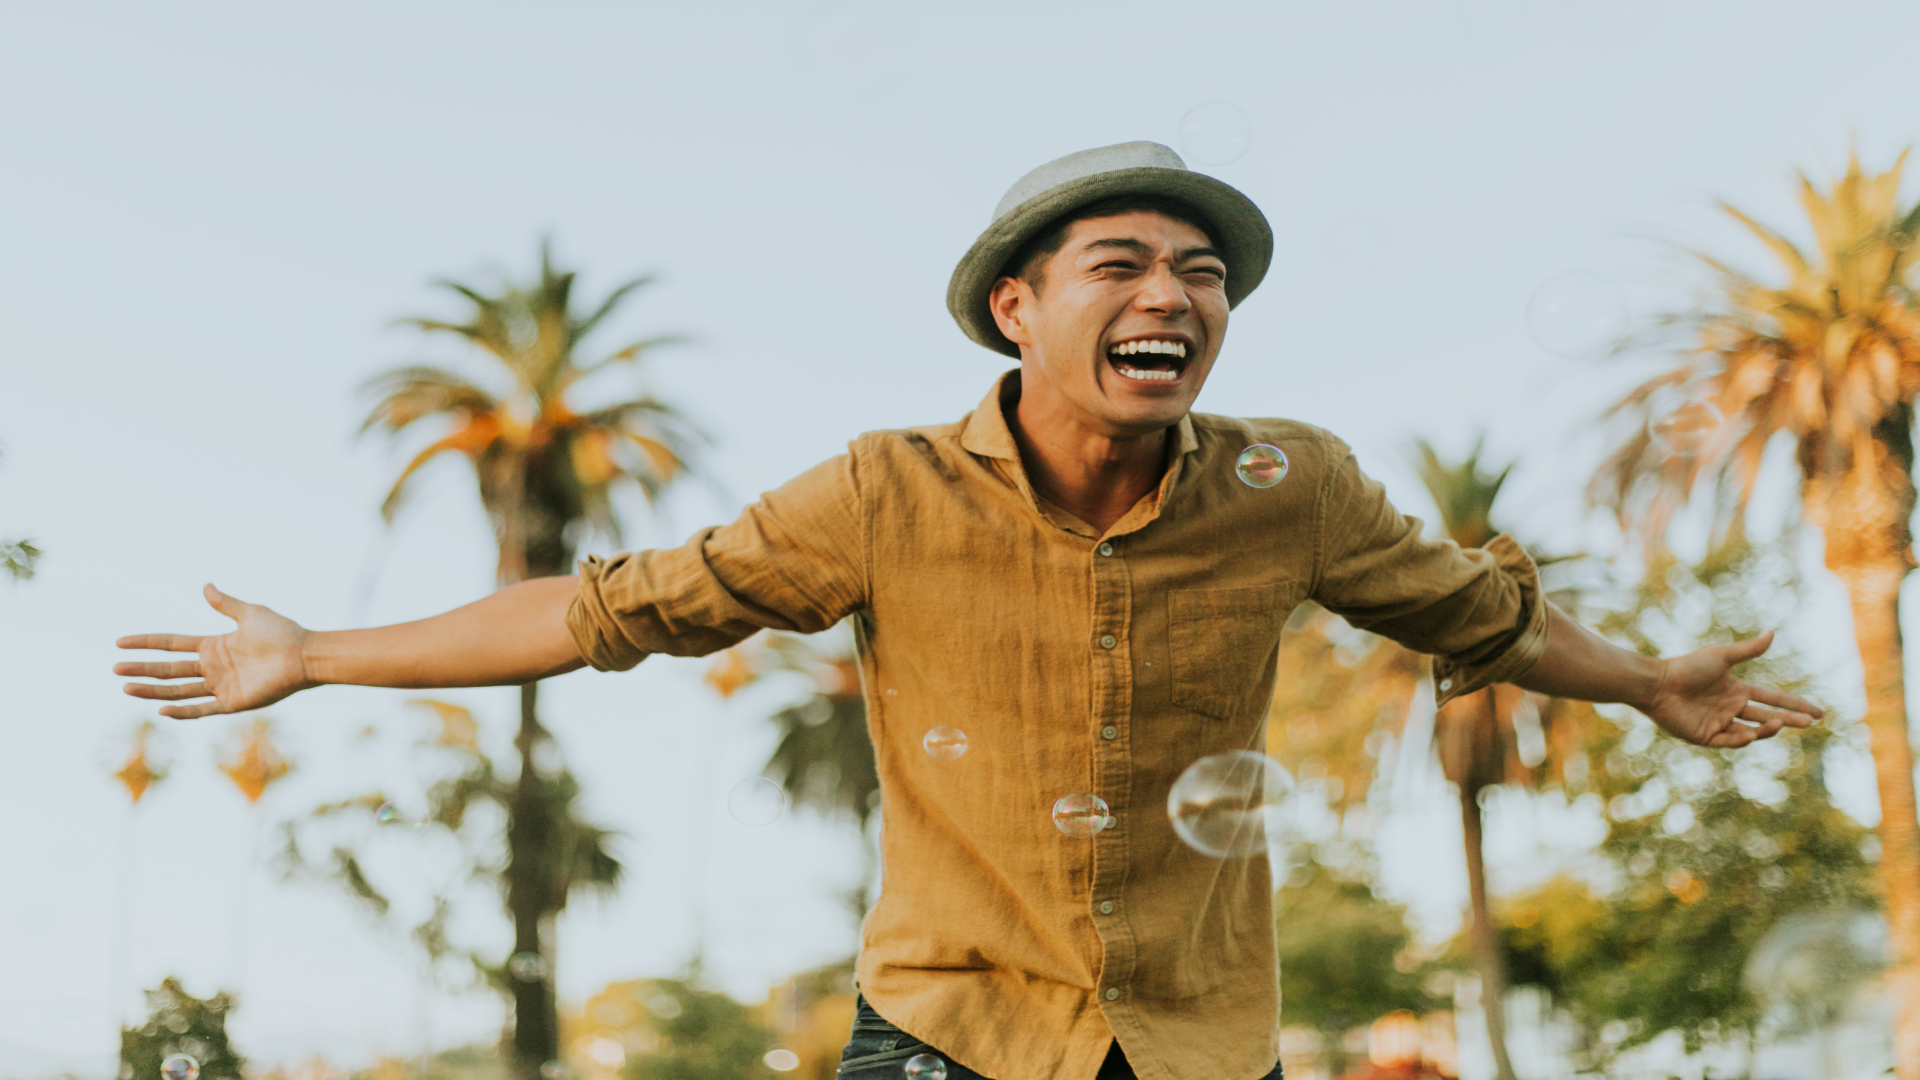
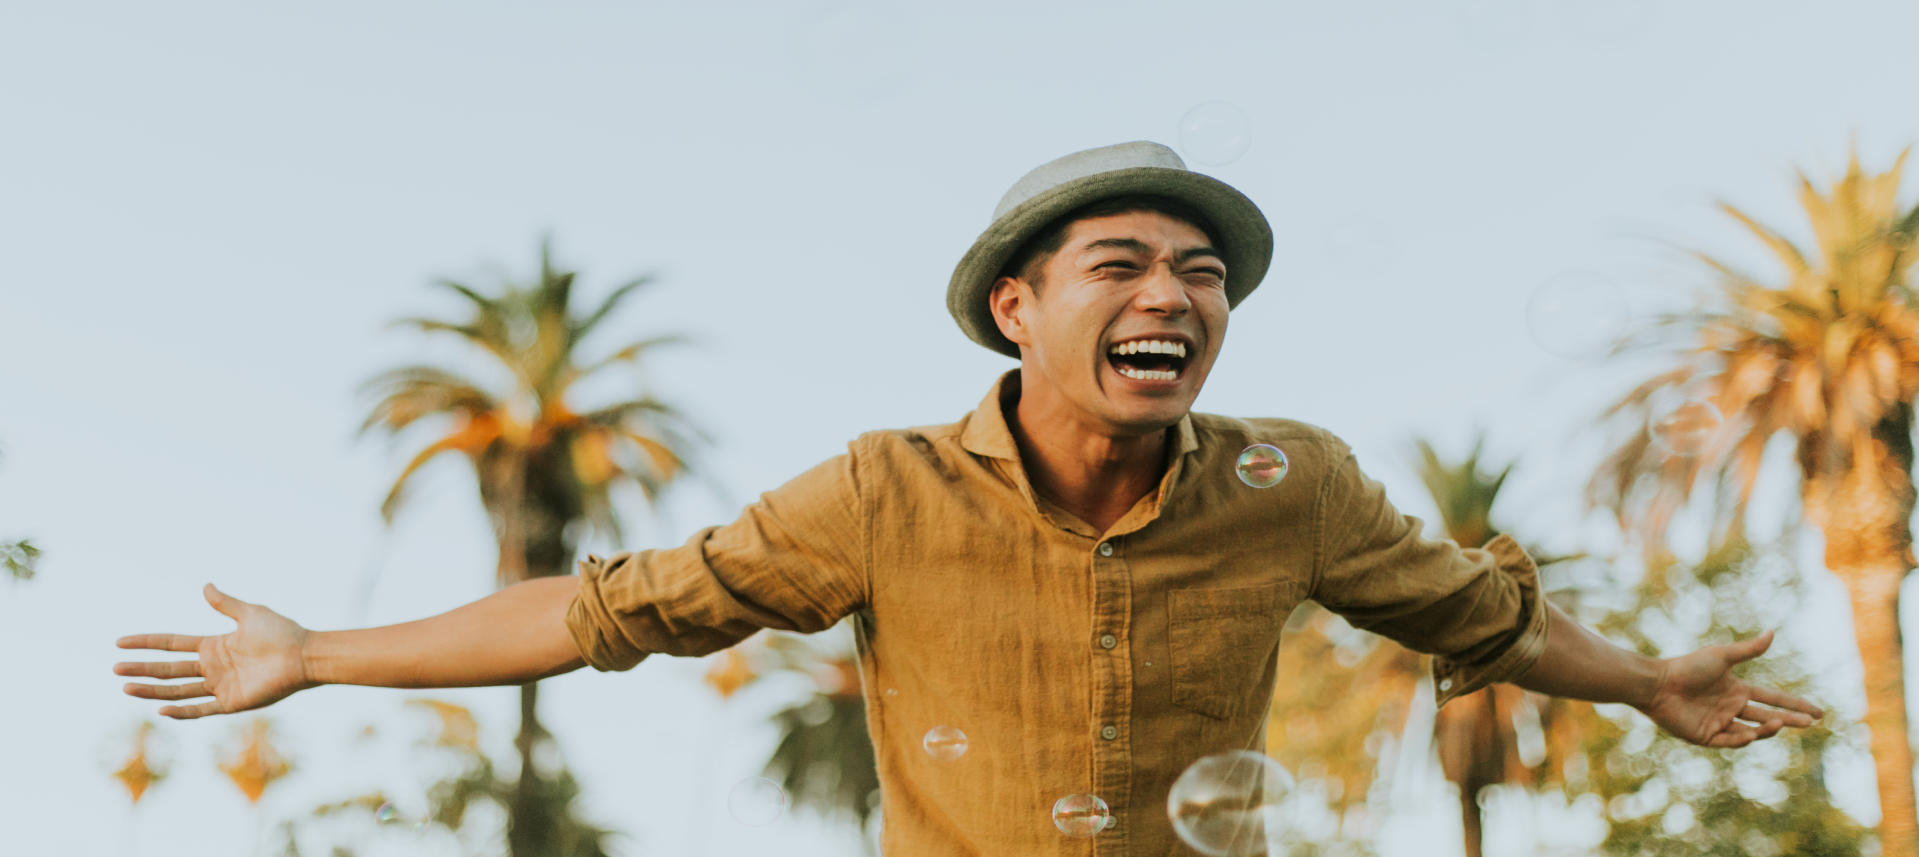
changes main services bg

diff --git a/public/mockups/net/ambassador-about-us.html b/public/mockups/net/ambassador-about-us.html
@@ -172,11 +172,11 @@
 
         </article>
         <article>
-            <div class="jumbotron jumbotron-fluid bg-ambassador-primary">
+            <div class="bg-ambassador-primary" style="padding: 2.8rem 0rem 3.5rem 0rem;">
                 <h1 style="color: white; text-align: center;">Why Our Customer Love EpiqMD</h1>
                 <div class="row">
                     <div class="col-lg-10 col-xl-8 mx-auto">
-                        <div class="p-5 rounded">
+                        <div class="rounded">
                             <!-- Bootstrap carousel-->
                             <div class="carousel slide" id="carouselExampleIndicators" data-ride="carousel">
                                 <!-- Bootstrap carousel indicators [nav] -->
@@ -249,13 +249,13 @@
                                 </div>
 
                                 <!-- Bootstrap controls [dots]-->
-                                <a class="carousel-control-prev width-auto" href="#carouselExampleIndicators" role="a"
-                                    data-slide="prev">
+                                <a class="carousel-control-prev width-auto" href="#carouselExampleIndicators"
+                                    role="button" data-slide="prev">
                                     <i class="fa fa-angle-left text-dark text-lg"></i>
                                     <span class="sr-only">Previous</span>
                                 </a>
-                                <a class="carousel-control-next width-auto" href="#carouselExampleIndicators" role="a"
-                                    data-slide="next">
+                                <a class="carousel-control-next width-auto" href="#carouselExampleIndicators"
+                                    role="button" data-slide="next">
                                     <i class="fa fa-angle-right text-dark text-lg"></i>
                                     <span class="sr-only">Next</span>
                                 </a>

diff --git a/public/mockups/net/ambassador-main-services.html b/public/mockups/net/ambassador-main-services.html
@@ -68,7 +68,7 @@
     <main>
 
         <article class="banner">
-            <div class="jumbotron jumbotron-fluid custom-banner main-service-banner">
+            <div class="jumbotron jumbotron-fluid custom-banner2 main-service-banner">
                 <div class="container d-flex align-items-start slider-container" >
                     <h1 class="display-4">You deserve <br>
                         an <span>Epiq</span> life. </h1>
